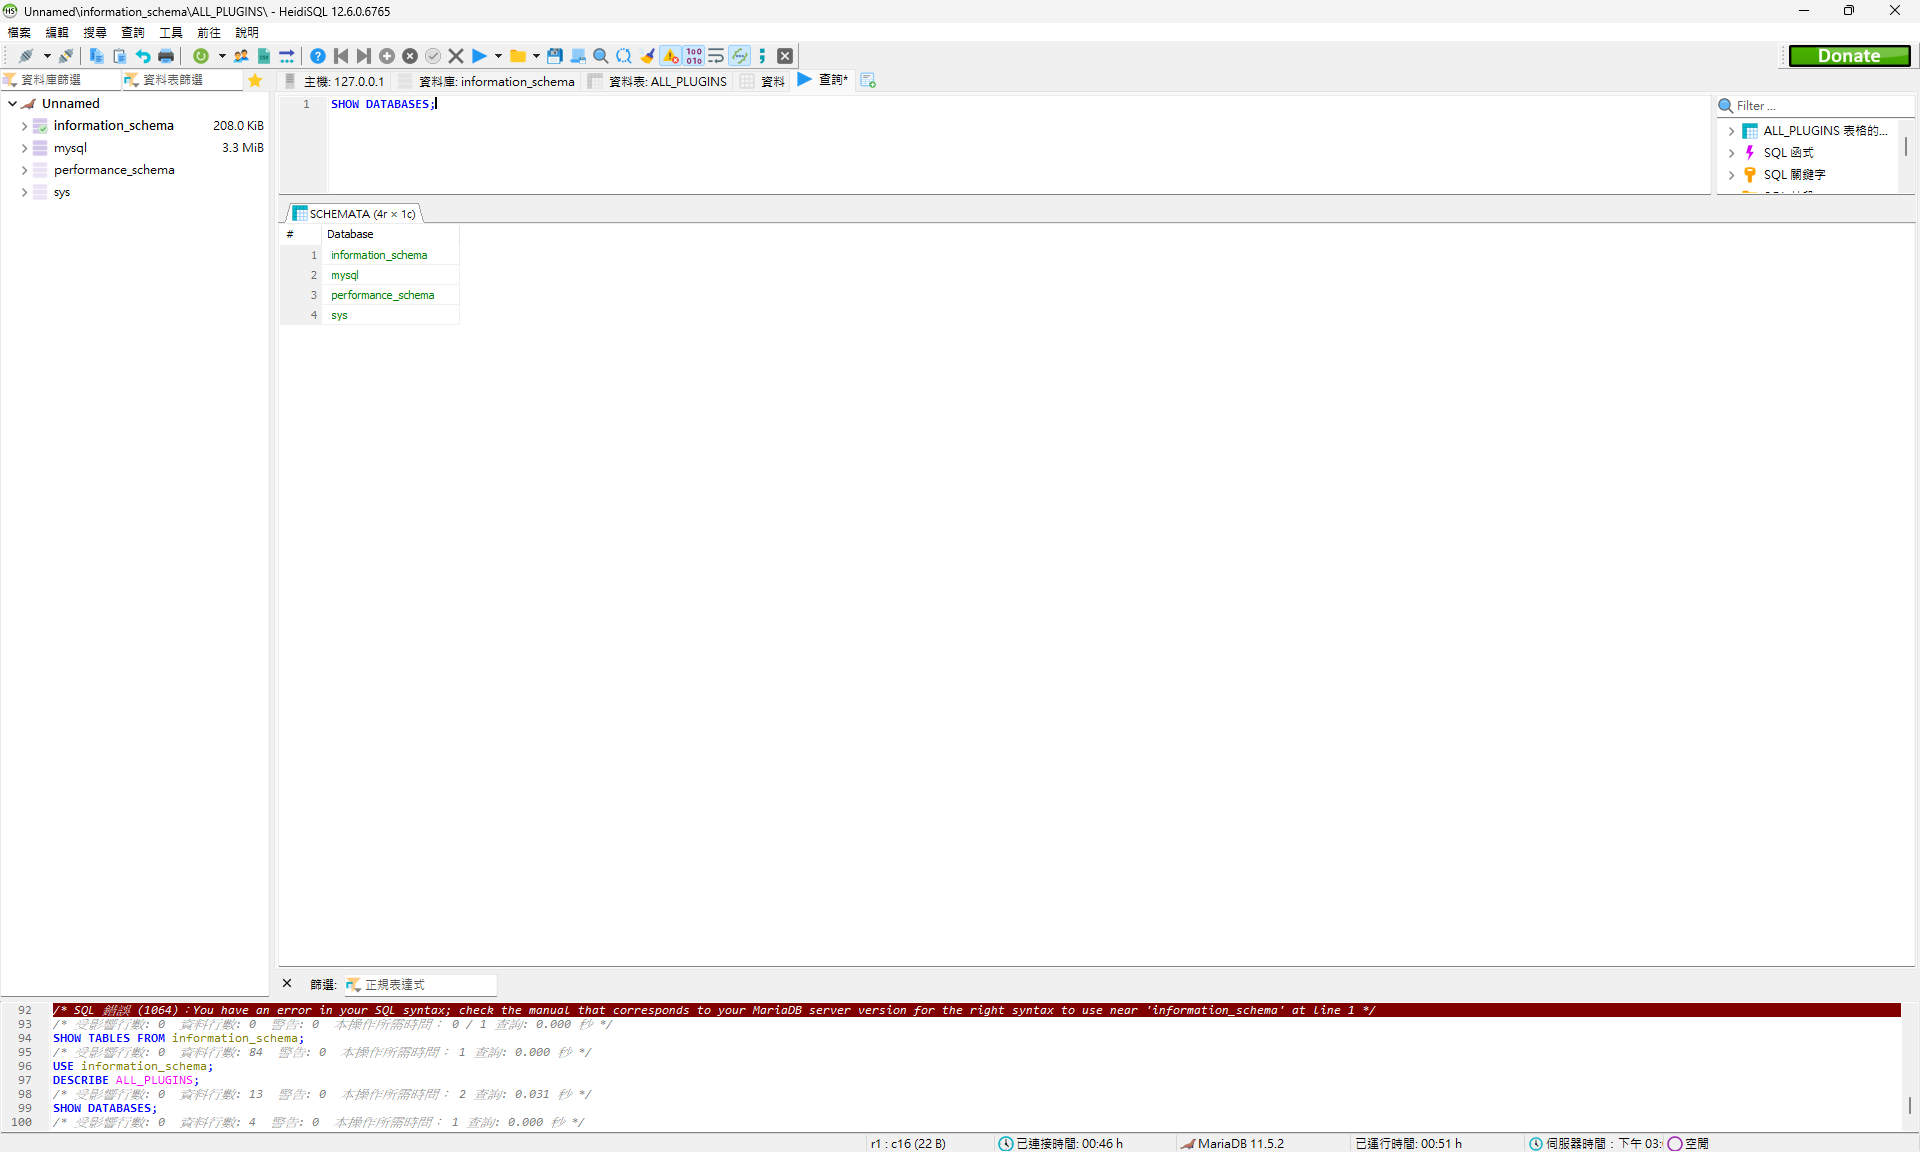
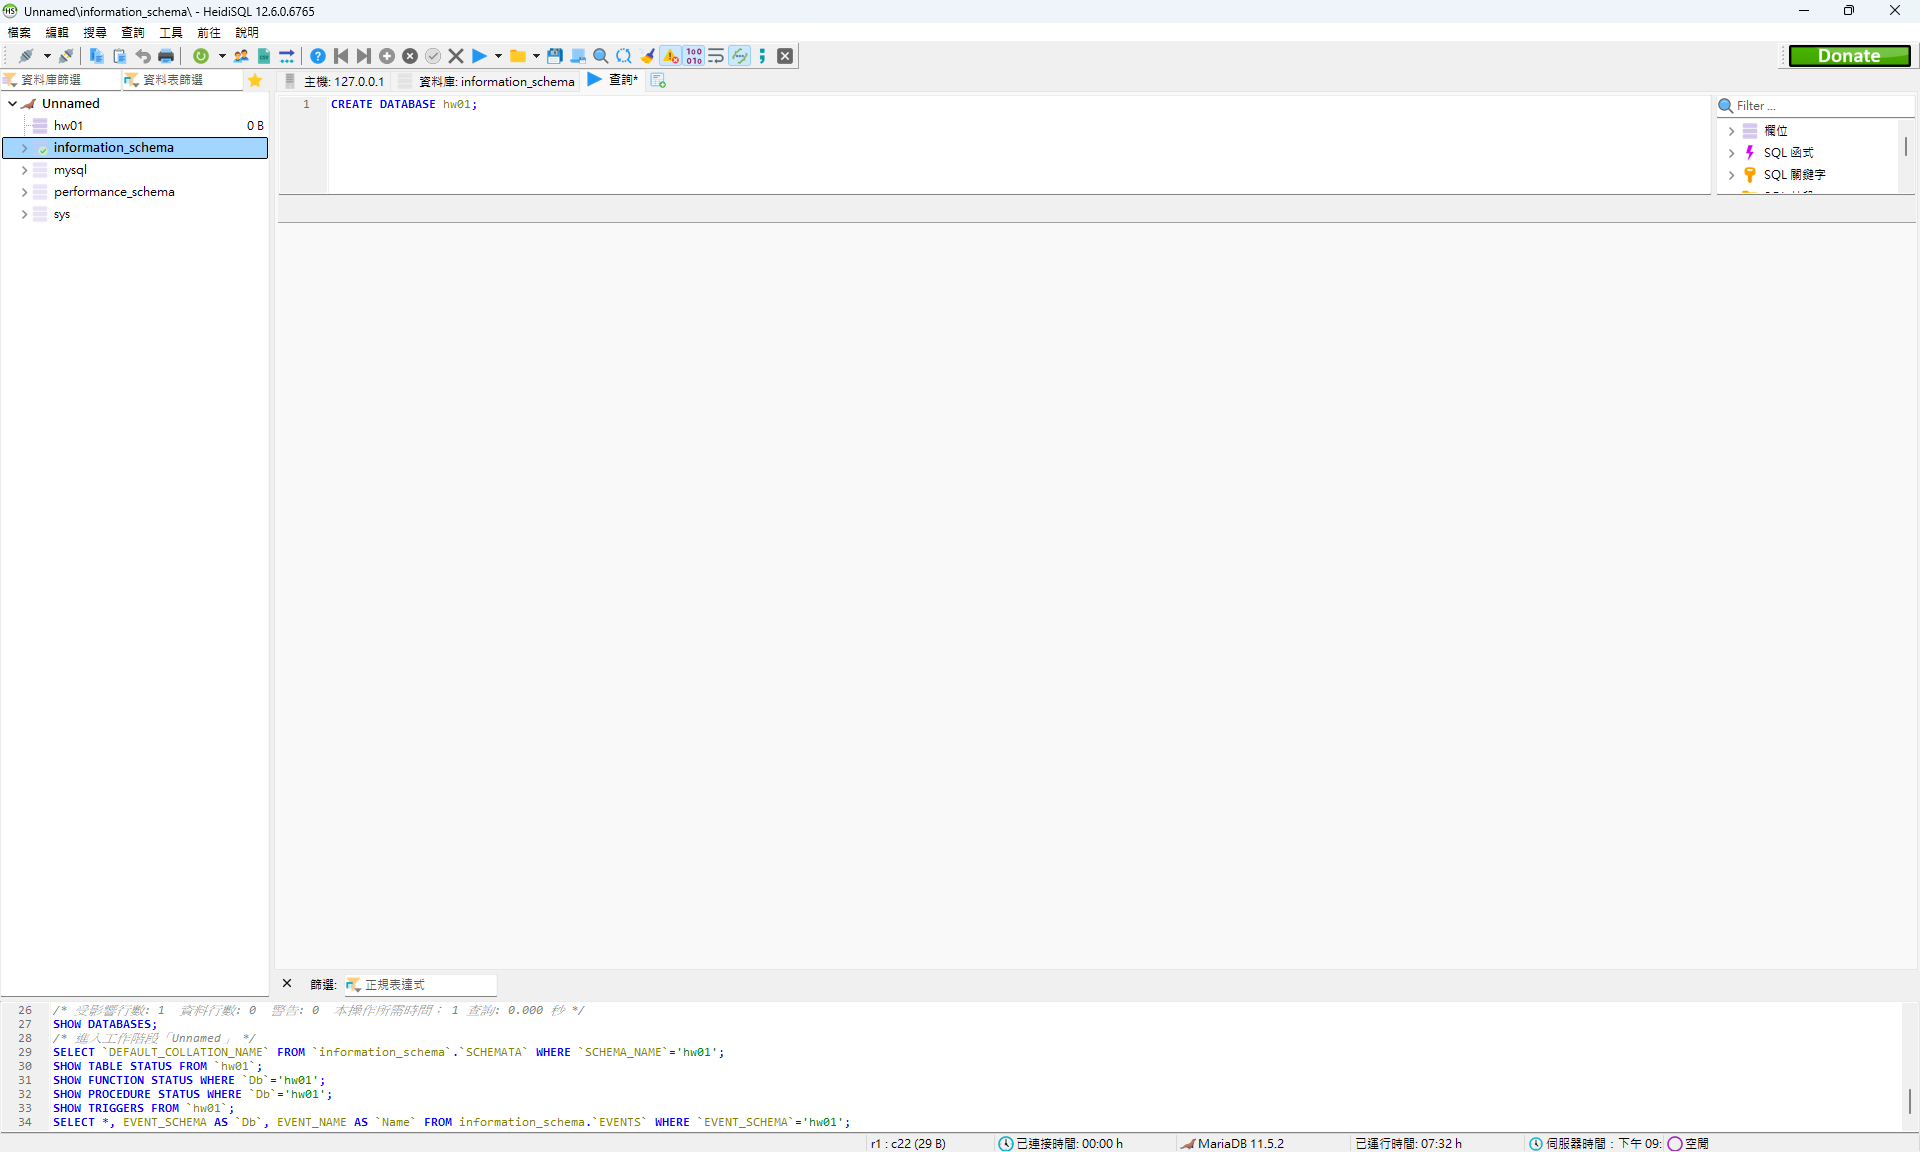
finish hw01

diff --git a/hw01/hw01.md b/hw01/hw01.md
@@ -74,12 +74,49 @@
 
 ### 5.
 
-|     | Entity 1  | Cardinality Ratio | Etity 2 |
-| --- | --------- | ----------------- | ------- |
-| 1.  | Student   | M:N               | Book    |
-| 2.  | Student   | N:1               | Advisor |
-| 3.  | ClassRoom | 1:N               | Wall    |
-| 4.  | Student   | M:N               | Course  |
-| 5.  | Car       | N:1               | Engine  |
+|     | Entity 1  | Cardinality Ratio | Etity 2 | 說明                                                   |
+| --- | --------- | ----------------- | ------- | ------------------------------------------------------ |
+| 1.  | Student   | M:N               | Book    | 一個學生可以有很多書，一款書可以被很學生擁有           |
+| 2.  | Student   | N:1               | Advisor | 一個學生只能有一個指導教授，一個指導教授可以有多個學生 |
+| 3.  | ClassRoom | 1:N               | Wall    | 一個教室可以有多個牆面，一個牆面只能屬於一間教室       |
+| 4.  | Student   | M:N               | Course  | 一個學生可以修很多門課，一門課可以有很多學生           |
+| 5.  | Car       | N:1               | Engine  | 一台車只能有一個引擎，一款引擎可以應用在很多台車       |
 
 ### 6.
+
+#### (a)
+
+- Entities:
+
+  - Application Form
+  - Student
+  - Department
+
+- Application Form attributes:
+
+  - no
+  - student
+  - application
+  - date of application
+  - date of resumption
+  - term of Suspension
+  - signature
+  - signed by parent
+  - suspension
+
+- Studnet attributes:
+
+  - student ID
+  - department
+  - class
+  - name
+  - cellphone
+  - address
+
+- Department attributes:
+  - department ID
+  - department name
+
+#### (b)
+
+![](ERD.png)
